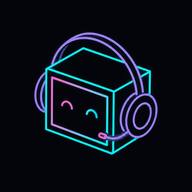
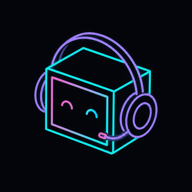
Add files via upload

diff --git a/README.md b/README.md
@@ -9,10 +9,7 @@ steps up on A.R.I.'s right side, requests a genre — and performs on it.
 
 ![A.R.I. preview](icon-512.png)
 
-Everything runs from a single HTML file. No build step, no JavaScript framework,
-no audio samples. The app uses the Web Audio API for synthesized sound, inline SVG
-for the scene, a tiny service worker for app-shell caching, and Google Fonts for
-typography.
+Everything is a single HTML file. No build step, no dependencies, no samples.
 
 ## ⚠️ Disclaimer
 
@@ -28,8 +25,8 @@ If you enjoy this, go watch the real thing. It's better.
 
 **The scene** is procedural SVG line art in an isometric projection: A.R.I. with
 headphones and headset mic, a hip-mounted flightcase rig (jog wheel, pads, keys,
-faders, the corner monitor), backpack speakers, NYC-style street-sign outlines,
-and comic sound dashes pulsing on the beat.
+faders, the corner monitor), backpack speakers, and comic sound dashes pulsing on
+the beat.
 
 **The music** is fully generative. Each track (1–3 minutes) picks a genre — boom
 bap, trap, jerk, drum n bass, 2000s rnb, or house — which sets the BPM range,
@@ -41,15 +38,14 @@ per-note with the Web Audio API and scheduled with a 25 ms lookahead loop.
 outfit, headwear) and a coiled cable plugged into the rig. A visitor requests a
 genre — spoken out loud in a retro robotic voice, with A.R.I. answering back —
 then A.R.I. crossfades into a fresh track in that style, and the visitor
-performs: usually on the mic, sometimes on sax, flute, acoustic or electric guitar,
-and rarely on violin or spacy e-violin. Very occasionally, a second visitor joins
-and a tiny cypher forms.
+performs: 9 out of 10 times on the mic, occasionally on sax, flute, acoustic or
+electric guitar, or (rarely) a violin or a spacy e-violin. Sometimes it's a duo.
 
 The speech is [SAM (Software Automatic Mouth)](https://github.com/discordier/sam),
 the 1982 C64 speech synthesizer ported to JavaScript by Christian Schiffler (MIT),
-inlined so the experience stays self-contained.
+inlined so everything stays a single file.
 
-## Running it locally
+## Running it
 
 Open `index.html` in a browser. That's it.
 
@@ -72,44 +68,35 @@ Served over https (GitHub Pages works), A.R.I. is an installable PWA:
 - **iOS / Safari**: share sheet → "Add to Home Screen". Runs standalone with the
   dark status bar.
 
-Keep `index.html`, `manifest.webmanifest`, `sw.js`, `apple-touch-icon.png`,
-`icon-192.png`, `icon-512.png`, `icon-maskable-192.png`, `icon-maskable-512.png`,
-`favicon-32.png` and `favicon-16.png` together in the same directory.
+Keep `index.html`, `manifest.webmanifest`, `sw.js`, `icon-192.png` and
+`icon-512.png` together in the same directory.
 
 ## Current version
 
-- Version 8 release: livestream logic, comfort/pitch limits, calmer intros, stronger album art variation, and cleaner visitor flow.
-- Visible footer tribute: `version 9`.
-- Service worker cache: `ari-v25`.
-- Rare cypher copy: `A cypher is forming`, shown only during the rare two-visitor moment.
-- Album art now has stronger contrast and more background variation, including occasional light covers.
-- Intros are calmer now: no high hats, risers, visitor solos or plucky high-frequency chaos before the beat has settled.
-- Comfort limit added: lead/chord pitches are clamped, harsh hats/risers are softened, and sparse tracks get a subtle safety bed.
+- **Version 12** — the breakdown now keeps the core kick+snare groove (stripped
+  of hats, bass and extras) instead of dropping to near-silence, so the flow
+  carries through and the main sections land harder when everything returns.
+- **Version 11** — headphone-comfort audio pass:
+  - Track roots sit lower, and all leads dropped an octave (the second visitor
+    was two octaves too high); flute/violin/e-violin no longer secretly play an
+    octave up.
+  - A hard lead ceiling plus a gentle master high-shelf keep melodies out of the
+    piercing register — the low end comes through far more often now.
+- **Version 10** — reworked generative music engine for consistent depth:
+  - **Arrangement**: every track now has a real structure (intro → main →
+    breakdown → main → outro) with elements entering and leaving on bar
+    boundaries, plus small fills on section transitions.
+  - **Voice-leading**: chords now move smoothly (each voice stays near the
+    previous one) and the bass follows the chord root instead of wandering.
+  - **Section-aware interaction**: drums, hats, leads and A.R.I.'s own vocals
+    respect the arrangement — sparse in the intro, open in the breakdown, full
+    in the main sections.
+  - No shrill/"modem" tones: nothing was added that can become harsh; depth
+    comes from existing sounds playing at the right moments.
+- Visible footer tribute: `version 10`.
+- Service worker cache: `ari-v26`.
 
 ## License
 
-Code: MIT. See [`LICENSE`](LICENSE).
-
-The tribute nature of the project (see disclaimer) applies to the concept and
-inspiration; everything in this repository is original work unless explicitly
-credited above.
-
-- Street-sign fix: the right-side blades now overlap the pole slightly so they connect cleanly.
-
-- Livestream logic pass: visitors now request, wait for the intro/drop, perform audibly, and only then leave.
-- Rare two-track visitors are explicit now: they can stay for one extra beat after they have actually performed.
-- Musical floor added so tracks should not collapse into a lonely kick-only loop.
-- Comfort pass tightened further: high flute/violin/vocal transpositions, SAM voices and cowbell/autotune edges are softened.
-- Layout fix: track info now uses symmetrical left/right margins so the text no longer runs too close to the right edge on mobile.
-
-- Production guard: every non-intro bar now has an audible musical floor, and visitors cannot silently appear/disappear without clearly performing.
-
-- Genre-aware sections: rap/R&B use verse/hook, house uses groove/peak/breakdown, and drum n bass uses rollout/drop/breakdown/second drop.
-
-- UI polish: album art is hidden from the on-page track info, but remains available for the phone/player lockscreen via Media Session artwork.
-
-- Layout fix: the start hint now uses the same safe left/right margins as the track info.
-
-- Anti-modem audio pass: removed autotune mode, disabled flute/violin random visitors, softened hats/noise/FM/plucks, and added a hard low-pass ceiling to prevent high-pitched non-musical tones.
-
-- Version 9 release: visible version bump for deployment verification, including the anti-modem audio pass and all version 8 production/UI fixes.
+Code: MIT. The tribute nature of the project (see disclaimer) applies to the
+concept and inspiration; everything in this repository is original work.